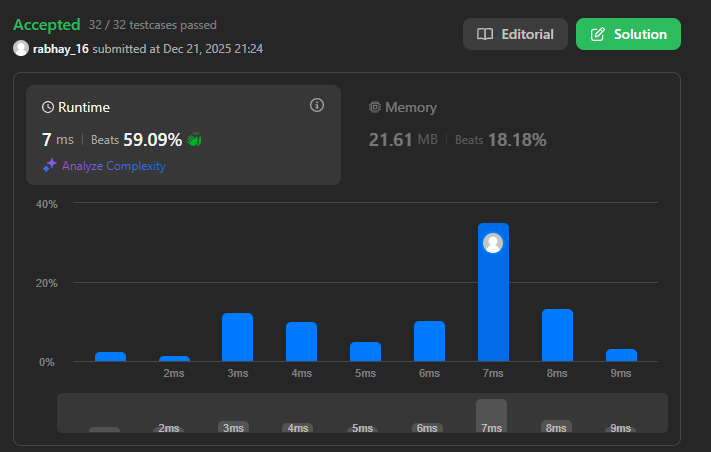
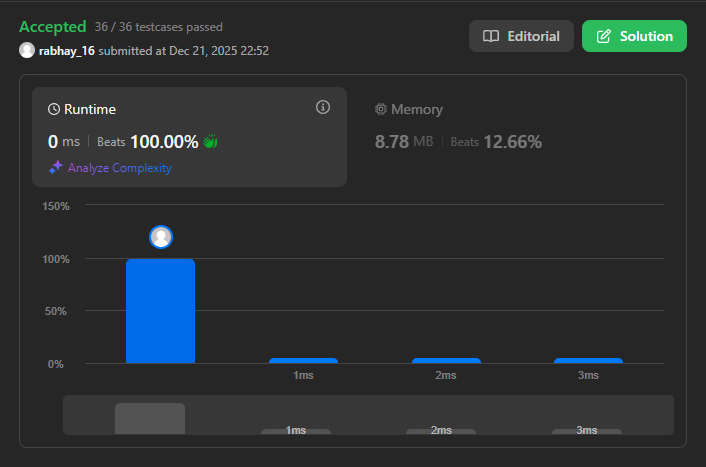
leetcode qn 876

diff --git a/1wn24cs214/middleofll.c b/1wn24cs214/middleofll.c
@@ -1,0 +1,11 @@
+struct ListNode* middleNode(struct ListNode* head) {
+    struct ListNode* slow = head;
+    struct ListNode* fast = head;
+
+    while (fast != NULL && fast->next != NULL) {
+        slow = slow->next;         // move 1 step
+        fast = fast->next->next;   // move 2 steps
+    }
+
+    return slow;   // slow is at middle
+}
